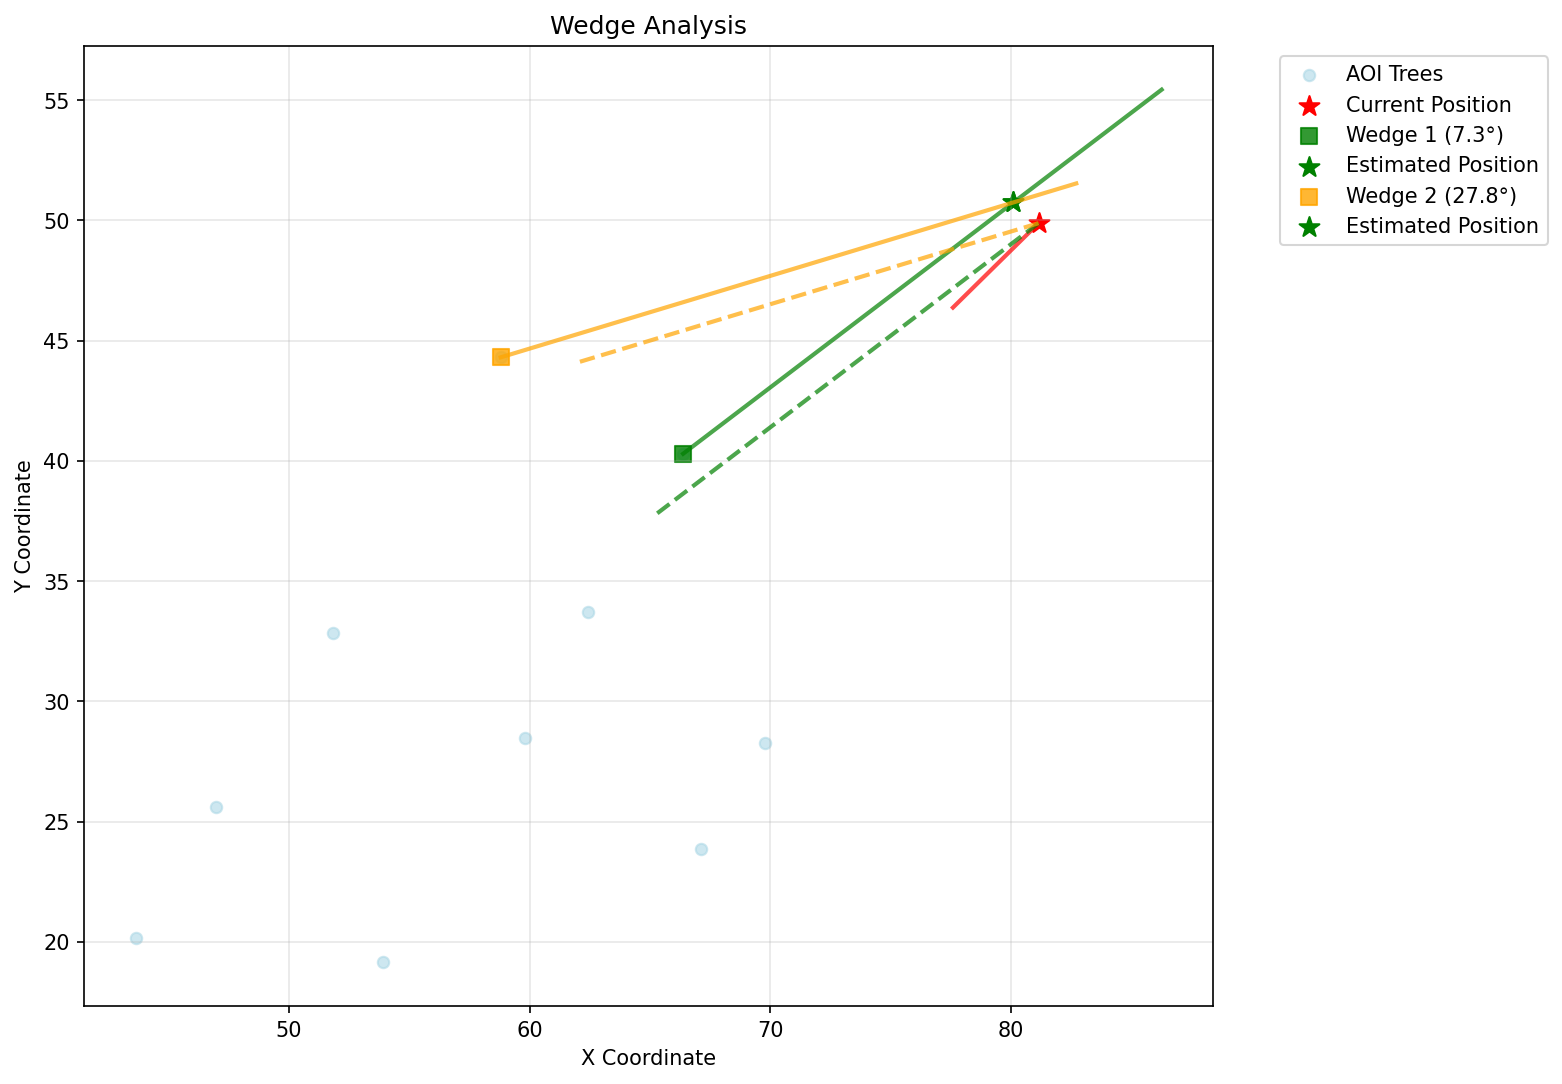
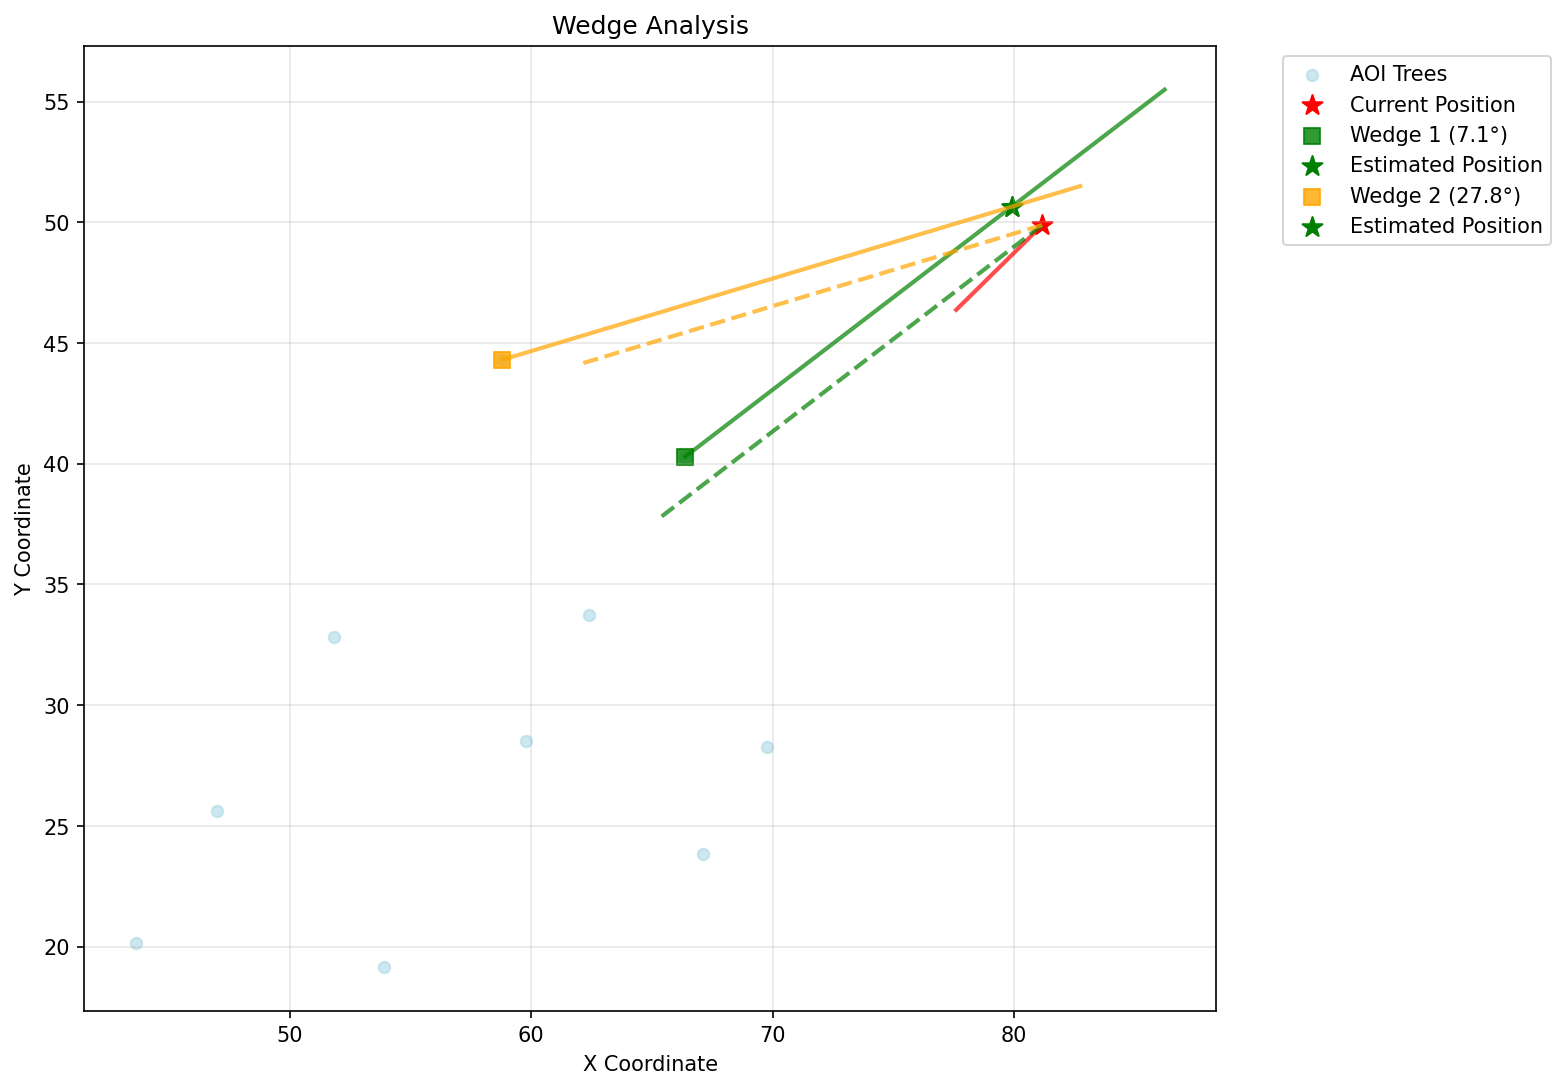
Additional commenting

diff --git a/project_sgil/tree_matcher.py b/project_sgil/tree_matcher.py
@@ -47,7 +47,7 @@ class TreeMatcher:
                 self.all_sat_tree_loc.append(point)
 
 
-    def match_trees(self, current_pose: Pose2d, ground_thetas: float) -> tuple[float, float]:
+    def match_trees(self, current_pose: Pose2d, ground_thetas: float) -> Point:
         """
         Match trees based on current position and ground view angles.
 
@@ -69,10 +69,8 @@ class TreeMatcher:
         # Estimate the location by matching the wedges to the identified trees
         estimated_location = self.wedge_matching(self.wedges, current_pose)
 
-        # Convert the estimated location to a Point object
-        estimated_location_point = Point(estimated_location[0], estimated_location[1])
         # Return the estimated location
-        return estimated_location_point
+        return estimated_location
 
 
     def get_area_of_interest(self, current_pose: Pose2d) -> list[tuple[float, float]]:
@@ -128,7 +126,7 @@ class TreeMatcher:
         return wedge
 
 
-    def wedge_matching(self, wedges: list[Wedge], current_pose: Pose2d) -> tuple[float, float]:
+    def wedge_matching(self, wedges: list[Wedge], current_pose: Pose2d) -> Point:
         """
         Match wedges to trees to find the most accurate position.
 
@@ -155,7 +153,7 @@ class TreeMatcher:
             vectors = self.create_vectors_from_wedges(matched_wedges, current_pose)
             centroid, _, std_dev = self.analyze_vector_intersections(vectors)
 
-            return centroid
+            return Point(centroid[0], centroid[1])
 
         # Loops through all the unmatched wedges and creates a list of combinations of trees
         wedge_combinations = [wedge.trees for wedge in unmatched_wedges]
@@ -163,7 +161,7 @@ class TreeMatcher:
         # if there are no wedge combinations found, return the current position
         if not wedge_combinations:
             print("No wedge found")
-            return (current_pose.x, current_pose.y)
+            return Point(current_pose.x, current_pose.y)
 
         # Create all the combinations of wedges and filter for unique combinations
         all_wedge_combinations = list(product(*wedge_combinations))
@@ -174,7 +172,7 @@ class TreeMatcher:
         # If there is not a unique wedge combo, return the current position
         if not unique_wedge_combinations:
             print("No unique wedge found")
-            return (current_pose.x, current_pose.y)
+            return Point(current_pose.x, current_pose.y)
 
         # Initializes the lowest standard deviation
         lowest_std_dev = float("inf")
@@ -187,7 +185,7 @@ class TreeMatcher:
             # Create vectors from the current position to each tree in the combo
             vectors = []
 
-            # Create vectors for each tree in the combo and matched wedges
+            # Create vectors for each tree in the unmatched combinations of wedges
             for i, tree in enumerate(tree_combo):
                 
                 if i < len(unmatched_wedges):
@@ -202,6 +200,7 @@ class TreeMatcher:
                     end_y = tree.y + vector_length * math.sin(direction_rad)
                     vectors.append([start_point, (end_x, end_y)])
 
+            # Create vectors for each tree in the matched wedges
             for wedge in matched_wedges:
                 if wedge.matched_tree:
                     
@@ -213,10 +212,13 @@ class TreeMatcher:
                     end_x = wedge.matched_tree.x + vector_length * math.cos(direction_rad)
                     end_y = wedge.matched_tree.y + vector_length * math.sin(direction_rad)
                     vectors.append([start_point, (end_x, end_y)])
-                    
+            
+            # Checks that there are at least two vectors and finds the centroid
             if len(vectors) >= 2:
                 
                 centroid, intersections, std_dev = self.analyze_vector_intersections(vectors)
+
+                # Checks that the standard deviation is the lowest
                 if centroid and std_dev is not None and std_dev < lowest_std_dev:
                     best_combo = tree_combo
                     lowest_std_dev = std_dev
@@ -235,10 +237,10 @@ class TreeMatcher:
             
             self.wedges = wedges
 
-            return best_centroid
+            return Point(best_centroid[0], best_centroid[1])
         
         print("No best centroid")
-        return (current_pose.x, current_pose.y)
+        return Point(current_pose.x, current_pose.y)
 
 
     def create_vectors_from_wedges(self, wedges: list[Wedge], current_pose: Pose2d) -> list[tuple[float, float]]:
@@ -276,26 +278,36 @@ class TreeMatcher:
         :return: List of intersection points as (x, y) tuples.
         """
 
+        # Initializes the list of intersections
         intersections = []
         
+        # Loops through all the vectors and finds the intersections
         for i in range(len(vectors)):
             j = i
             while(j < len(vectors)):
-                
                 if i != j:
-                    # print(f"Combo: ({vectors[i]}, {vectors[j]}")
                     intersections.append(self.find_intersection(vectors[i], vectors[j]))
                 j += 1
                         
         return intersections
-    
-    def find_intersection(self, vector1, vector2):
+
+    def find_intersection(self, vector1: tuple[tuple[float, float], tuple[float, float]], vector2: tuple[tuple[float, float], tuple[float, float]]) -> tuple[float, float]:
+        """
+        Find the intersection point of two vectors.
+        :param vector1: First vector as [start_point, end_point].
+        :param vector2: Second vector as [start_point, end_point].
+        
+        :return: Intersection point as (x, y) tuple or None if no
+            intersection."""
+
+        # Gets the deltas of the vectors
         delta1_x = vector1[1][0] - vector1[0][0]
         delta1_y = vector1[1][1] - vector1[0][1]
 
         delta2_x = vector2[1][0] - vector2[0][0]
         delta2_y = vector2[1][1] - vector2[0][1]
 
+        # Checks if the vectors are perfectly vertical
         if delta1_x == 0:
             m1 = 9999.9
         else:
@@ -306,12 +318,15 @@ class TreeMatcher:
         else:
             m2 = delta2_y / delta2_x
         
+        # Gets the y intercepts of the vectors
         b1 = - (vector1[0][0] * m1) + vector1[0][1]
         b2 = - (vector2[0][0] * m2) + vector2[0][1]
 
+        # Finds the intersection point of the two lines
         x_int = (b1 - b2) / (m2 - m1)
         y_int = m1 * x_int + b1
 
+        # Creates the intersection point
         intersection = (x_int, y_int)
 
         return intersection
@@ -403,12 +418,15 @@ class TreeMatcher:
         :return: Relative angle in degrees (-180, 180).
         """
 
-        current_x, current_y, current_heading = current_pose.x, current_pose.y, current_pose.yaw
+        # Gets the target X and Y coordinates
         target_x, target_y = point
-        abs_angle_rad = math.atan2(target_y - current_y, target_x - current_x)
-        abs_angle_deg = math.degrees(abs_angle_rad)
-        rel_angle_deg = abs_angle_deg - current_heading
 
+        # Calculates the relative angle to the target point from current pose
+        abs_angle_rad = math.atan2(target_y - current_pose.y, target_x - current_pose.x)
+        abs_angle_deg = math.degrees(abs_angle_rad)
+        rel_angle_deg = abs_angle_deg - current_pose.yaw
+
+        # Normalize the relative angle to be within (-180, 180)
         rel_angle_deg = ((rel_angle_deg + 180) % 360) - 180
         
         return rel_angle_deg

diff --git a/project_sgil/manual_setup.py b/project_sgil/manual_setup.py
@@ -207,6 +207,7 @@ class SGILMatcherApp:
         compute ground angles, match trees, and print errors.
         """
 
+        # Prints out the instructions for use
         print("Starting manual tree selection...")
         print("Instructions:")
         print("- Left-click to select trees in the image")
@@ -215,9 +216,13 @@ class SGILMatcherApp:
         print("- Press Ctrl+C to quit")
         print("- Debug plots will be saved to 'debug_plots/' folder\n")
 
+        # Continues until there are no more images
         while True:
+
+            # Gets the name, points chosen, and the pose of the next image
             name, points, pose = self.get_next_image()
 
+            # Checks that there is another image and a pose
             if name == "0":
                 logging.info("All images processed. Exiting.")
                 break
@@ -225,12 +230,14 @@ class SGILMatcherApp:
             if not pose:
                 logging.warning(f"No valid pose for {name}; skipping.")
                 continue
-
+            
+            # Gets the ground thetas from the image and matches the corresponding trees with the satellite data
             ground_thetas = [self.converter.image_x_to_theta(pt.x) for pt in points]
             est_xy = self.tree_matcher.match_trees(pose, ground_thetas)
 
             print("Estimated location xy: ", est_xy)
 
+            # Get data for debug visualization
             aoi_sat_trees = self.tree_matcher.aoi_sat_trees
             all_sat_tree_loc = self.tree_matcher.all_sat_tree_loc
             wedges = self.tree_matcher.wedges
